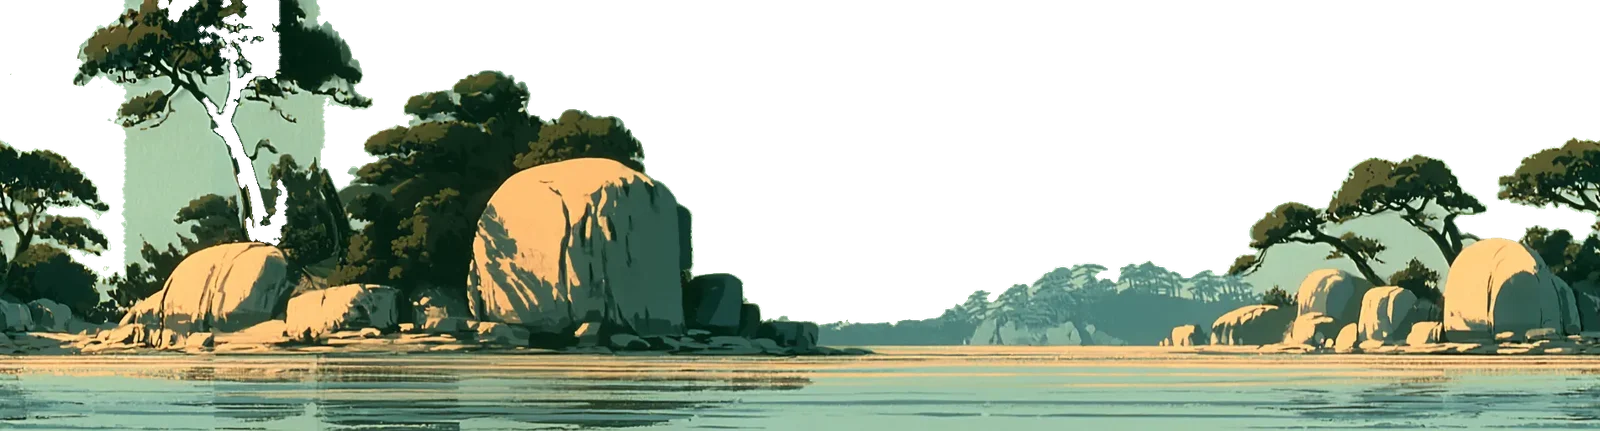
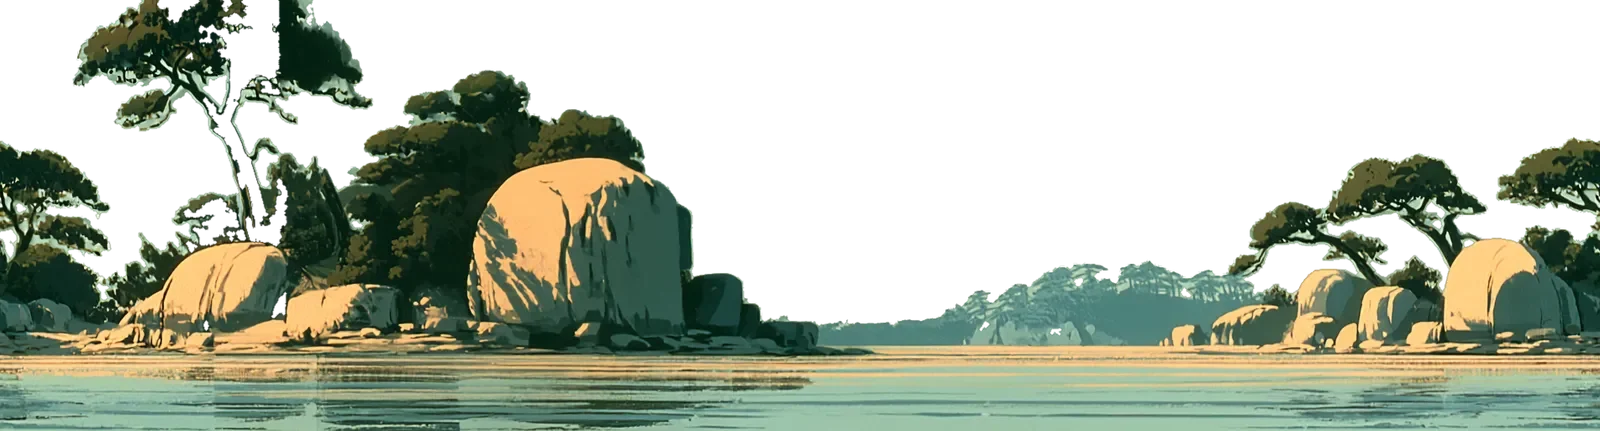
가운데 겹 누끼 전수 점검: 지저분한 3종(서울·알프스·구름) 제거, 바이칼 다시 오림, 떠다니는 얼룩 정리
Claude-Session: https://claude.ai/code/session_015fNbvzvz4xuREQtMjmLhTY

diff --git a/index.html b/index.html
@@ -338,7 +338,7 @@ function bedTex(){const c=document.createElement('canvas');c.width=1024;c.height
   g.fillStyle='#14191b';g.fillRect(0,38,1024,3);
   const t=new THREE.CanvasTexture(c);t.colorSpace=THREE.SRGBColorSpace;t.wrapS=THREE.RepeatWrapping;return t}
 const bed=plane(bedTex(),1,1);bed.renderOrder=5;bed.visible=false;scene.add(bed);
-const MIDS={seoul:['seoul',.8],gyeongbu:['kcity',.85],cloud:['cloud',.9],snow:['snow',1],aurora:['snow',.75],taiga:['snow',1],baikal:['baikal',1],moscow:['rus',.9],plain:['rus',.75],forest:['deforest',.9],castle:['deforest',.95],alps:['alps',1],paris:['paris',.85],sea:['reef',.9],england:['eng',1],london:['paris',.8]};
+const MIDS={seoul:['kcity',.8],gyeongbu:['kcity',.85],cloud:null,snow:['snow',1],aurora:['snow',.75],taiga:['snow',1],baikal:['baikal',1],moscow:['rus',.9],plain:['rus',.75],forest:['deforest',.9],castle:['deforest',.95],alps:['deforest',1],paris:['paris',.85],sea:['reef',.9],england:['eng',1],london:['paris',.8]};
 const pmid=plane(null,1,1,[1,1,1],{haze:.12,sat:.9,bri:.95});pmid.renderOrder=3;pmid.visible=false;scene.add(pmid);let pmAR=4,pmK=null;
 function setPano(id){if(PANO.id===id)return;PANO.id=id;const busan=id==='busan';PANO.on=!busan;
   far.visible=nearWater.visible=mid.visible=emb.visible=busan;pano.visible=bed.visible=!busan;

diff --git a/stage/index.html b/stage/index.html
@@ -338,7 +338,7 @@ function bedTex(){const c=document.createElement('canvas');c.width=1024;c.height
   g.fillStyle='#14191b';g.fillRect(0,38,1024,3);
   const t=new THREE.CanvasTexture(c);t.colorSpace=THREE.SRGBColorSpace;t.wrapS=THREE.RepeatWrapping;return t}
 const bed=plane(bedTex(),1,1);bed.renderOrder=5;bed.visible=false;scene.add(bed);
-const MIDS={seoul:['seoul',.8],gyeongbu:['kcity',.85],cloud:['cloud',.9],snow:['snow',1],aurora:['snow',.75],taiga:['snow',1],baikal:['baikal',1],moscow:['rus',.9],plain:['rus',.75],forest:['deforest',.9],castle:['deforest',.95],alps:['alps',1],paris:['paris',.85],sea:['reef',.9],england:['eng',1],london:['paris',.8]};
+const MIDS={seoul:['kcity',.8],gyeongbu:['kcity',.85],cloud:null,snow:['snow',1],aurora:['snow',.75],taiga:['snow',1],baikal:['baikal',1],moscow:['rus',.9],plain:['rus',.75],forest:['deforest',.9],castle:['deforest',.95],alps:['deforest',1],paris:['paris',.85],sea:['reef',.9],england:['eng',1],london:['paris',.8]};
 const pmid=plane(null,1,1,[1,1,1],{haze:.12,sat:.9,bri:.95});pmid.renderOrder=3;pmid.visible=false;scene.add(pmid);let pmAR=4,pmK=null;
 function setPano(id){if(PANO.id===id)return;PANO.id=id;const busan=id==='busan';PANO.on=!busan;
   far.visible=nearWater.visible=mid.visible=emb.visible=busan;pano.visible=bed.visible=!busan;
